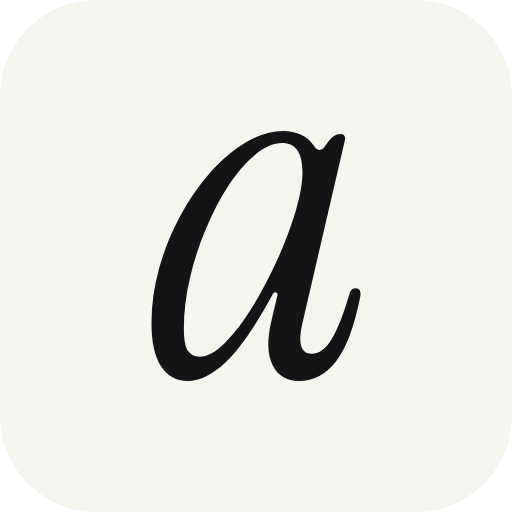
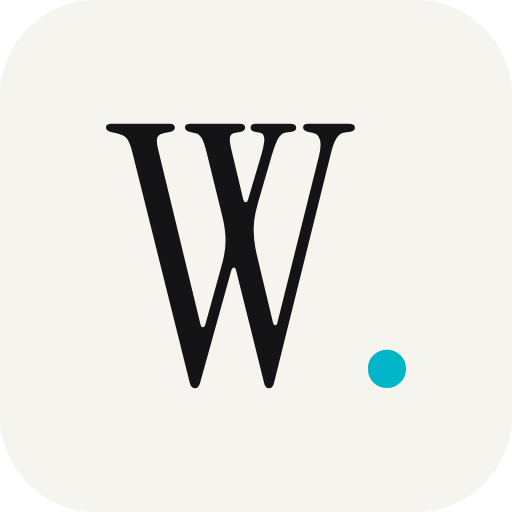
Rebrand from Atelier Digital to Websmith
Name: studio is now "Websmith" everywhere — <title>, metadata, OG alt,
nav, footer, copyright, privacy. Removed every "Atelier Digital"/"atelier"
instance (including the old-brand reference files logo-full.svg and
atelier-digital-logo.png).

Wordmark: "Websmith." in Instrument Serif (roman), ink, with the final
period in cyan #00B5C8 — replacing the old two-word atelier/digital
lockup. Rewrote components/Logo.tsx (inline for nav, display for footer;
ink/ivory tone, period always cyan). Manrope removed (no longer used).

Colour: ivory background and ink text unchanged; the beige accent is
replaced by cyan #00B5C8 everywhere it appeared — link underlines
(.tlink/.svc a), the footer WhatsApp button, the footer Privacy link, and
the wordmark period. Cyan is used with the same restraint beige had (the
warm surface band and ink hairlines/labels are unchanged).

Favicon + icons: regenerated favicon.svg as the Instrument Serif "W" (ink)
+ cyan period on ivory, exact vector outlines extracted from the font;
icon-32/180/512.png rasterized to match. OG image regenerated with the
"Websmith." wordmark centered on ivory and the tagline in Archivo, ink.

Legal: footer gains "Websmith is a Web Smith FZCO company."; the /privacy
page now names Web Smith FZCO (Dubai, UAE) as the operating entity, with
the same data-practices content and updated contact email.

Voice: reworked salon/French-atelier phrasing toward craftsman language —
[…]

Changed region(s): [[0.2188, 0.2188, 0.7188, 0.7812], [0.7188, 0.6562, 0.8125, 0.7812]]

diff --git a/app/globals.css b/app/globals.css
@@ -1,22 +1,19 @@
 /*
- * Ported from studio-minimal-ivory-v3.html — ivory / ink / beige minimal.
- * Adaptations from the source file:
- *  - CSS variables use semantic names (--ink / --beige …); the values are
- *    unchanged from the source.
- *  - The source's two leftover cool-toned hover/hairline values are replaced
- *    with ink/warm equivalents — the palette is strictly ivory/ink/beige.
- *  - Font families are wired to the next/font CSS variables.
- * Screenshots fill the work cards (browser chrome removed) and get a slow
- * object-position hover pan; button/card translate motion is dropped so the
- * only motion is fade-rise reveals + the pan.
+ * Websmith — ivory / ink minimal with a single cyan accent.
+ * Cyan is used sparingly, as the only accent (the wordmark period, link
+ * underlines, the footer button). Font families are wired to the next/font
+ * CSS variables. Screenshots
+ * fill the work cards (browser chrome removed) with a slow object-position
+ * hover pan; the only motion is fade-rise reveals + the pan.
  */
 
 :root{
   --bg:#F6F4EF;         /* ivory page */
-  --surface:#EDEAE2;    /* beige surface band */
+  --surface:#EDEAE2;    /* warm surface band */
   --ink:#141416;        /* ink */
   --ink-deep:#0E0E10;   /* footer ink */
-  --beige:#B8AF9E;      /* single beige accent — link underlines + footer button only */
+  --cyan:#00B5C8;       /* single cyan accent — wordmark period, link underlines, footer button */
+  --cyan-deep:#0097A7;  /* cyan hover */
   --muted:#6E6A61;      /* muted labels */
   --body:#4C4A44;       /* body copy on ivory/surface */
 }
@@ -32,19 +29,13 @@ nav{position:sticky;top:0;z-index:50;background:rgba(246,244,239,.85);backdrop-f
 .nav-in{max-width:1080px;margin:0 auto;padding:20px 28px;display:flex;justify-content:space-between;align-items:center}
 .logo{display:inline-flex;text-decoration:none}
 
-/* Logotype lockup — Instrument Serif italic "atelier" + Manrope "digital" */
-.logo-lockup{line-height:1}
-.lg-atelier{font-family:var(--font-instrument-serif),serif;font-style:italic;font-weight:400;text-transform:lowercase}
-.lg-digital{font-family:var(--font-manrope),sans-serif;font-weight:500;text-transform:lowercase;color:var(--beige)}
-/* two-colour lockup: "digital" is always beige; the tone recolours "atelier" only */
-.logo-tone-ink .lg-atelier{color:var(--ink)}
-.logo-tone-ivory .lg-atelier{color:#F6F4EF}
-.logo-inline{display:inline-flex;align-items:baseline;gap:.3em}
-.logo-inline .lg-atelier{font-size:29px}
-.logo-inline .lg-digital{font-size:19px;letter-spacing:-.005em}
-.logo-stacked{display:inline-flex;flex-direction:column;align-items:flex-start;line-height:.9}
-.logo-stacked .lg-atelier{font-size:37px}
-.logo-stacked .lg-digital{font-size:30px}
+/* Wordmark — "Websmith." in Instrument Serif; the final period is cyan */
+.wordmark{font-family:var(--font-instrument-serif),serif;font-weight:400;line-height:1;white-space:nowrap;letter-spacing:-.01em}
+.wm-tone-ink{color:var(--ink)}
+.wm-tone-ivory{color:#F6F4EF}
+.wm-dot{color:var(--cyan)}
+.wm-inline{font-size:28px}
+.wm-display{font-size:44px}
 nav .links{display:flex;gap:30px;align-items:center}
 nav .links a{color:var(--ink);text-decoration:none;font-size:15px;opacity:.75;transition:opacity .2s}
 nav .links a:hover{opacity:1}
@@ -59,7 +50,7 @@ h1{font-weight:600;font-size:clamp(34px,4.5vw,60px);line-height:1.15;letter-spac
 .h-ctas{margin-top:34px;display:flex;gap:26px;align-items:center;border-top:1px solid rgba(20,20,22,.14);padding-top:34px;flex-wrap:wrap}
 .btn{background:var(--ink);color:var(--bg);text-decoration:none;padding:16px 30px;border-radius:100px;font-size:15px;font-weight:500;transition:background .2s}
 .btn:hover{background:#2A2A2C}
-.tlink{color:var(--ink);text-decoration:none;font-size:15px;font-weight:500;border-bottom:1px solid var(--beige);padding-bottom:2px;transition:border-color .2s}
+.tlink{color:var(--ink);text-decoration:none;font-size:15px;font-weight:500;border-bottom:1px solid var(--cyan);padding-bottom:2px;transition:border-color .2s}
 .tlink:hover{border-color:var(--ink)}
 
 /* ---------- SECTIONS ---------- */
@@ -97,7 +88,7 @@ section .wrap{position:relative}
 .svc{border-top:1px solid rgba(20,20,22,.2);padding-top:26px}
 .svc h3{font-weight:600;font-size:22px;letter-spacing:-.01em;margin-bottom:12px}
 .svc p{color:var(--body);font-size:16px;margin-bottom:20px}
-.svc a{color:var(--ink);text-decoration:none;font-size:15px;font-weight:500;border-bottom:1px solid var(--beige);padding-bottom:2px;transition:border-color .2s}
+.svc a{color:var(--ink);text-decoration:none;font-size:15px;font-weight:500;border-bottom:1px solid var(--cyan);padding-bottom:2px;transition:border-color .2s}
 .svc a:hover{border-color:var(--ink)}
 
 /* ---------- PROCESS ---------- */
@@ -122,11 +113,12 @@ footer{background:var(--ink-deep);color:var(--bg);border-radius:28px 28px 0 0;ma
 .f-logo{margin-bottom:34px}
 .f-title{font-weight:600;font-size:clamp(30px,4vw,52px);letter-spacing:-.02em;margin-bottom:18px;color:#F6F4EF}
 .f-sub{color:#A5A199;font-size:17px;margin-bottom:40px;max-width:440px}
-.btn-wa{display:inline-block;background:var(--beige);color:var(--ink);text-decoration:none;padding:16px 30px;border-radius:100px;font-size:15px;font-weight:500;transition:background .2s}
-.btn-wa:hover{background:#A99F8C}
+.btn-wa{display:inline-block;background:var(--cyan);color:var(--ink);text-decoration:none;padding:16px 30px;border-radius:100px;font-size:15px;font-weight:500;transition:background .2s}
+.btn-wa:hover{background:var(--cyan-deep)}
 .f-meta{margin-top:90px;display:flex;justify-content:space-between;flex-wrap:wrap;gap:12px;color:#8A867D;font-size:13px;border-top:1px solid rgba(246,244,239,.16);padding-top:26px}
-.f-link{color:#8A867D;text-decoration:none;border-bottom:1px solid rgba(184,175,158,.45);padding-bottom:1px;transition:color .2s,border-color .2s}
-.f-link:hover{color:#F6F4EF;border-color:#F6F4EF}
+.f-link{color:#8A867D;text-decoration:none;border-bottom:1px solid rgba(0,181,200,.5);padding-bottom:1px;transition:color .2s,border-color .2s}
+.f-link:hover{color:#F6F4EF;border-color:var(--cyan)}
+.f-legal{margin-top:22px;color:#6E6A63;font-size:12px}
 
 /* ---------- LEGAL / PRIVACY ---------- */
 .legal-page{padding:118px 0 130px}

diff --git a/config/site.ts b/config/site.ts
@@ -2,9 +2,9 @@
  * config/site.ts — single source of truth for the whole site.
  *
  * Change values here and the entire site updates:
- *  - studioName:      leave "" to render the "name in production" placeholder
- *                     treatment in the nav/footer; set it to your real studio
- *                     name to show it everywhere.
+ *  - studioName:      the studio name used in the <title> and metadata. The
+ *                     visual wordmark renders from the Instrument Serif
+ *                     treatment (components/Logo.tsx), not this string.
  *  - whatsappNumber:  placeholder "+9715XXXXXXXX". Every WhatsApp CTA builds a
  *                     wa.me link from this, with a pre-filled message (naming
  *                     the service where relevant).
@@ -55,14 +55,14 @@ export interface SectionHead {
 }
 
 export const site = {
-  /** "" → nav/footer show the "name in production" placeholder treatment. */
-  studioName: "Atelier Digital",
+  /** Studio name for <title> / metadata. The visual wordmark is rendered separately. */
+  studioName: "Websmith",
 
   /** Placeholder. Every CTA builds a wa.me link from this. */
   whatsappNumber: "+9715XXXXXXXX",
 
   /** Contact email for data / privacy questions. Replace with your real address. */
-  contactEmail: "privacy@atelierdigital.com",
+  contactEmail: "privacy@websmith.ae",
 
   /** Pre-filled WhatsApp messages. `{service}` is swapped for the service name. */
   whatsapp: {
@@ -148,7 +148,7 @@ export const site = {
       name: "Signature builds",
       subject: "a signature build",
       description:
-        "The full treatment — brand-level art direction, custom animation, and a site nobody scrolls past.",
+        "Built from the ground up — brand-level art direction, custom animation, and a site nobody scrolls past.",
     },
   ] as Service[],
 
@@ -177,12 +177,11 @@ export const site = {
     title: "Let's build yours.",
     sub: "Tell me what you do — I'll tell you what your website should do. Quotes over WhatsApp, usually within hours.",
     button: "Message on WhatsApp",
-    /** meta line strings; the copyright line is generated from studioName */
+    /** meta line strings; the copyright + legal lines render separately */
     meta: ["Dubai, UAE — ships worldwide", "English / العربية"],
+    /** small legal line naming the operating entity */
+    legal: "Websmith is a Web Smith FZCO company.",
   },
 };
 
 export type Site = typeof site;
-
-/** Placeholder used for the © line when studioName isn't set yet. */
-export const NAME_PLACEHOLDER = "name in production";

diff --git a/components/Logo.tsx b/components/Logo.tsx
@@ -1,24 +1,23 @@
 /**
- * The Atelier Digital logotype — a two-colour typographic lockup: "atelier" in
- * Instrument Serif italic over/before "digital" in Manrope medium, both
- * lowercase. "digital" is always beige; the tone recolours "atelier" only.
+ * The Websmith wordmark — "Websmith." set in Instrument Serif, ink (or ivory on
+ * the dark footer band), with the final period in cyan. Used ONLY in the
+ * logotype and favicon; the rest of the site is Archivo.
  *
- *  - variant "inline"  → one line, for the nav.
- *  - variant "stacked" → two lines, tight leading, for the footer / OG.
- *  - tone "ink" (default) → "atelier" ink; tone "ivory" → "atelier" ivory
- *    (for the dark footer band). "digital" stays beige in both.
+ *  - variant "inline"  → nav size.
+ *  - variant "display" → larger, for the footer / OG.
+ *  - tone "ink" (default) → word in ink; tone "ivory" → word in ivory (dark
+ *    footer band). The period is always cyan in both.
  */
 export default function Logo({
   variant = "inline",
   tone = "ink",
 }: {
-  variant?: "inline" | "stacked";
+  variant?: "inline" | "display";
   tone?: "ink" | "ivory";
 }) {
   return (
-    <span className={`logo-lockup logo-${variant} logo-tone-${tone}`} aria-label="Atelier Digital">
-      <span className="lg-atelier">atelier</span>
-      <span className="lg-digital">digital</span>
+    <span className={`wordmark wm-${variant} wm-tone-${tone}`} aria-label="Websmith">
+      Websmith<span className="wm-dot">.</span>
     </span>
   );
 }

diff --git a/app/layout.tsx b/app/layout.tsx
@@ -1,5 +1,5 @@
 import type { Metadata, Viewport } from "next";
-import { archivo, spaceMono, instrumentSerif, manrope } from "./fonts";
+import { archivo, spaceMono, instrumentSerif } from "./fonts";
 import { site } from "@/config/site";
 import "./globals.css";
 
@@ -21,7 +21,7 @@ export const metadata: Metadata = {
         url: "/og.png",
         width: 1200,
         height: 630,
-        alt: "Atelier Digital — sites that ship in days, and look like they took months.",
+        alt: "Websmith — sites that ship in days, and look like they took months.",
       },
     ],
   },
@@ -64,7 +64,7 @@ export default function RootLayout({
         </noscript>
       </head>
       <body
-        className={`${archivo.variable} ${spaceMono.variable} ${instrumentSerif.variable} ${manrope.variable}`}
+        className={`${archivo.variable} ${spaceMono.variable} ${instrumentSerif.variable}`}
       >
         {children}
       </body>

diff --git a/components/Footer.tsx b/components/Footer.tsx
@@ -1,15 +1,14 @@
-import { site, NAME_PLACEHOLDER } from "@/config/site";
+import { site } from "@/config/site";
 import { waLink } from "@/lib/whatsapp";
 import Logo from "./Logo";
 
 export default function Footer() {
-  const name = site.studioName || NAME_PLACEHOLDER;
   const { footer } = site;
   return (
     <footer id="contact">
       <div className="wrap">
         <div className="f-logo rv">
-          <Logo variant="stacked" tone="ivory" />
+          <Logo variant="display" tone="ivory" />
         </div>
         <div className="f-title rv">{footer.title}</div>
         <p className="f-sub rv">{footer.sub}</p>
@@ -23,8 +22,9 @@ export default function Footer() {
           <a className="f-link" href="/privacy">
             Privacy
           </a>
-          <span>© {name}</span>
+          <span>© Websmith</span>
         </div>
+        <p className="f-legal">{footer.legal}</p>
       </div>
     </footer>
   );

diff --git a/app/fonts.ts b/app/fonts.ts
@@ -1,4 +1,4 @@
-import { Archivo, Space_Mono, Instrument_Serif, Manrope } from "next/font/google";
+import { Archivo, Space_Mono, Instrument_Serif } from "next/font/google";
 
 /**
  * Archivo — variable font at normal width. Used for headings and body at
@@ -20,20 +20,12 @@ export const spaceMono = Space_Mono({
 });
 
 /**
- * Instrument Serif (italic, 400) and Manrope (medium, 500) — used ONLY for the
- * "Atelier Digital" logotype (and the favicon). Not for body or headings.
+ * Instrument Serif (regular, 400) — used ONLY for the "Websmith." wordmark
+ * (and the favicon). Not for body or headings.
  */
 export const instrumentSerif = Instrument_Serif({
   subsets: ["latin"],
   weight: "400",
-  style: "italic",
   display: "swap",
   variable: "--font-instrument-serif",
-});
-
-export const manrope = Manrope({
-  subsets: ["latin"],
-  weight: ["500"],
-  display: "swap",
-  variable: "--font-manrope",
 });

diff --git a/app/privacy/page.tsx b/app/privacy/page.tsx
@@ -24,7 +24,8 @@ export default function Privacy() {
           <div className="legal">
             <p className="lead">
               This website is how most projects with {studio} begin — so here is exactly what happens
-              to anything you share through it.
+              to anything you share through it. {studio} is operated by Web Smith FZCO (Dubai, UAE),
+              which is responsible for the information described below.
             </p>
 
             <h2>What we collect</h2>
@@ -43,7 +44,7 @@ export default function Privacy() {
             <h2>Sharing</h2>
             <p>
               We do not sell your information, and we do not share it with third parties. It stays
-              between you and {studio}.
+              between you and Web Smith FZCO.
             </p>
 
             <h2>Questions or removal</h2>

diff --git a/components/Nav.tsx b/components/Nav.tsx
@@ -4,7 +4,7 @@ export default function Nav() {
   return (
     <nav>
       <div className="nav-in">
-        <a className="logo" href="/#top" aria-label="Atelier Digital — home">
+        <a className="logo" href="/#top" aria-label="Websmith — home">
           <Logo variant="inline" tone="ink" />
         </a>
         <div className="links">

diff --git a/README.md b/README.md
@@ -1,9 +1,9 @@
-# Independent Web Studio — Dubai
+# Websmith — Independent Web Studio, Dubai
 
-A single-page portfolio/services site for an independent web design studio in
-Dubai. Built with **Next.js 14 (App Router) + TypeScript**, porting the approved
-design in `studio-minimal-ivory-v3.html` — a modern-minimal, ivory / ink /
-beige layout: Archivo (normal width, sentence case) + Space Mono for tiny
+A single-page portfolio/services site for **Websmith**, an independent web
+design studio in Dubai (a Web Smith FZCO company). Built with **Next.js 14
+(App Router) + TypeScript** — a modern-minimal, ivory / ink layout with a
+single cyan accent: Archivo (normal width, sentence case) + Space Mono for tiny
 labels, a hairline structure system, real screenshots inside rounded work
 cards, and restrained motion (fade-rise reveals + a slow screenshot hover pan).
 
@@ -70,33 +70,39 @@ that file.
 app/
   layout.tsx        # metadata, OpenGraph, favicon/app icons, theme-color, fonts
   page.tsx          # composes the single-page site
-  globals.css       # global stylesheet (ivory / ink / beige, hairline system)
-  fonts.ts          # Archivo + Space Mono (body); Instrument Serif + Manrope (logotype)
+  globals.css       # global stylesheet (ivory / ink + cyan accent, hairline system)
+  fonts.ts          # Archivo + Space Mono (body); Instrument Serif (wordmark)
 components/          # Nav, Hero, Work, WorkScene, Services, Process,
                      # Bilingual, Footer, Reveals, Logo
 config/site.ts      # ← single source of truth
 lib/whatsapp.ts     # builds wa.me links from the config
 lib/workShots.ts    # resolves each work screenshot (.png then .jpeg)
-public/favicon.svg  # favicon — Instrument Serif italic "a", ink on ivory
+public/favicon.svg  # favicon — Instrument Serif "W" (ink) + cyan period, on ivory
 public/icon-32|180|512.png   # PNG icon fallbacks (favicon / apple-touch / large)
 public/og.png       # 1200×630 OpenGraph image (static asset)
 public/work/        # project screenshots (see public/work/README.md)
 ```
 
-## The logotype
+## The wordmark
 
-"Atelier Digital" renders as a typographic lockup (see `components/Logo.tsx`):
-"atelier" in **Instrument Serif** italic over/before "digital" in **Manrope**
-medium, both lowercase. The nav uses the one-line `inline` variant (ink); the
-footer uses the two-line `stacked` variant (ivory on the ink band). Instrument
-Serif and Manrope are loaded via `next/font` and used **only** in the logotype
-and favicon — body and headings stay Archivo. `config/site.ts` keeps
-`studioName: "Atelier Digital"` for the `<title>` and metadata.
+"Websmith." renders as a wordmark (see `components/Logo.tsx`): "Websmith" in
+**Instrument Serif** with the final period in cyan (`#00B5C8`). The nav uses the
+`inline` variant (ink word); the footer uses the larger `display` variant (ivory
+word on the ink band). The period is always cyan. Instrument Serif is loaded via
+`next/font` and used **only** in the wordmark and favicon — body and headings
+stay Archivo. `config/site.ts` keeps `studioName: "Websmith"` for the `<title>`
+and metadata; the visual wordmark is rendered from the treatment, not the string.
+
+## Colour
+
+Ivory background (`#F6F4EF`) and ink text (`#141416`) throughout, with a single
+cyan accent (`#00B5C8`) used sparingly — the wordmark period, link underlines,
+and the footer WhatsApp button.
 
 ## Fonts, performance & accessibility
 
 - Fonts load through `next/font/google` (Archivo + Space Mono for the site;
-  Instrument Serif + Manrope for the logotype) — self-hosted, no layout shift.
+  Instrument Serif for the wordmark) — self-hosted, no layout shift.
 - Work screenshots use `next/image` with aspect-ratio containers, so images
   reserve space and there is no CLS.
 - Motion is CSS-first and minimal: gentle fade-and-rise scroll reveals and a
@@ -108,15 +114,15 @@ and favicon — body and headings stay Archivo. `config/site.ts` keeps
 
 ## Regenerating the OG image & icons
 
-`public/og.png` is a committed static asset: the stacked logotype centered on
-ivory with the tagline in Archivo beneath. It was rendered from the app's own
+`public/og.png` is a committed static asset: the "Websmith." wordmark centered
+on ivory with the tagline in Archivo beneath. It was rendered from the app's own
 components (self-hosted fonts) via a temporary `/og-preview` route screenshotted
 at 1200×630. To regenerate, recreate that preview page and capture it, or
 re-render an equivalent 1200×630 composition.
 
-`public/favicon.svg` is self-contained (the Instrument Serif italic "a" as a
-vector path, ink on ivory); the PNG fallbacks `icon-32.png`, `icon-180.png`, and
-`icon-512.png` are rasterized from it.
+`public/favicon.svg` is self-contained (the Instrument Serif "W" as a vector
+path in ink, with a cyan period, on ivory); the PNG fallbacks `icon-32.png`,
+`icon-180.png`, and `icon-512.png` are rasterized from it.
 
 ## Deploying on Vercel
 
